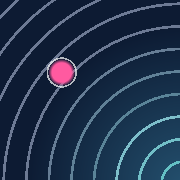
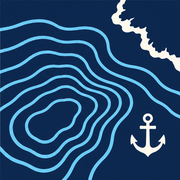
新しいアプリアイコン（ChatGPTで作成・4ツール共通の紺地）

diff --git a/sw.js b/sw.js
@@ -2,7 +2,7 @@
 // アプリの外枠＋水深データ＋Leafletをキャッシュし、電波の弱い海上でも起動できるようにする。
 // さらに一度見た航空写真タイル（国土地理院）もキャッシュ＝見た海域は圏外でも表示できる。
 // アプリを更新したら CACHE の番号を上げること（古いキャッシュを破棄するため）。
-const CACHE = "depth-map-v3";       // アプリ本体（v3: 現在地・姉妹リンク・色分け）
+const CACHE = "depth-map-v4";       // アプリ本体（v4: 新しいアプリアイコン）
 const TILECACHE = "depth-tiles-v1"; // 航空写真タイル（見たぶんだけ貯まる）
 const TILE_LIMIT = 1200;            // タイルの貯め過ぎ防止（古いものから捨てる）
 
